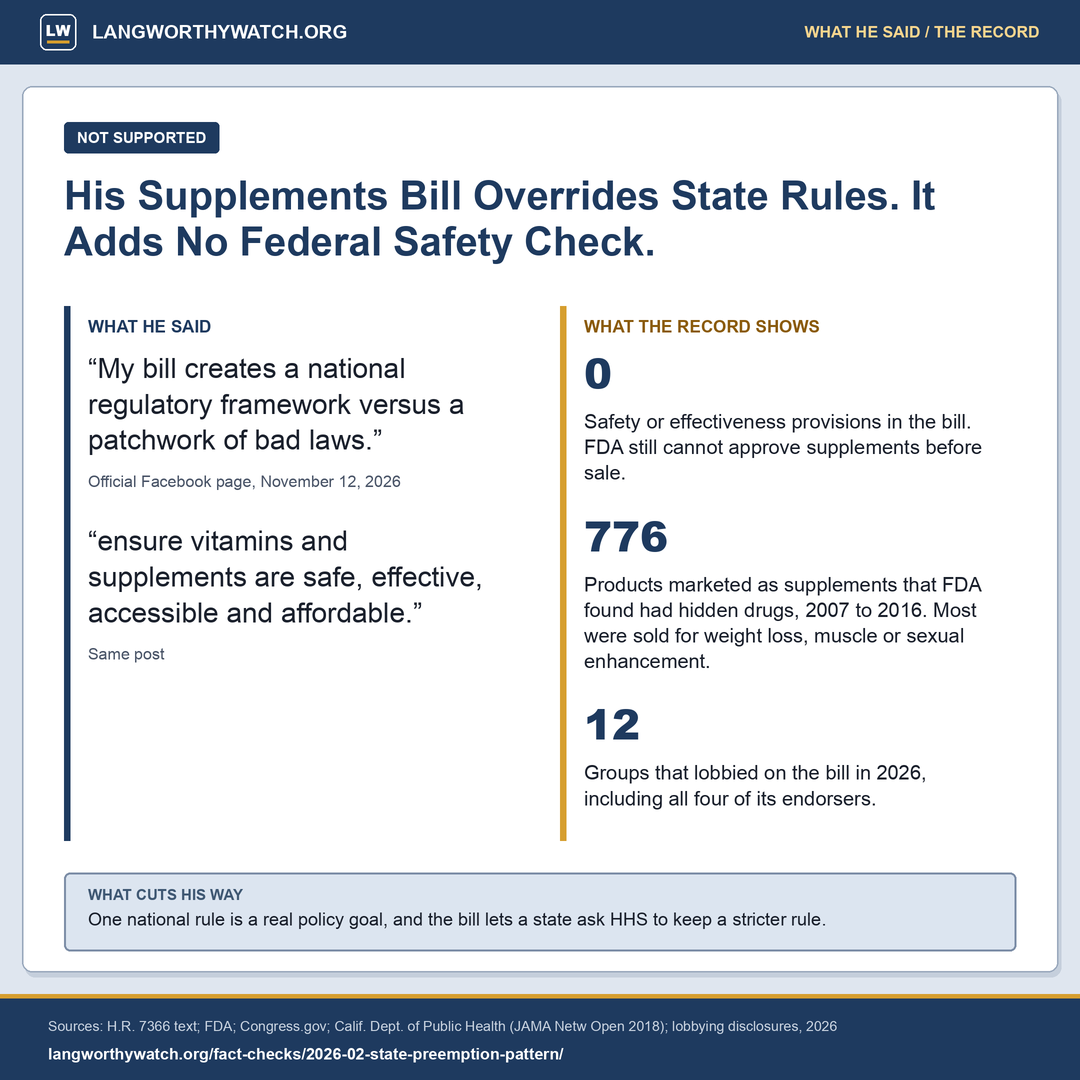
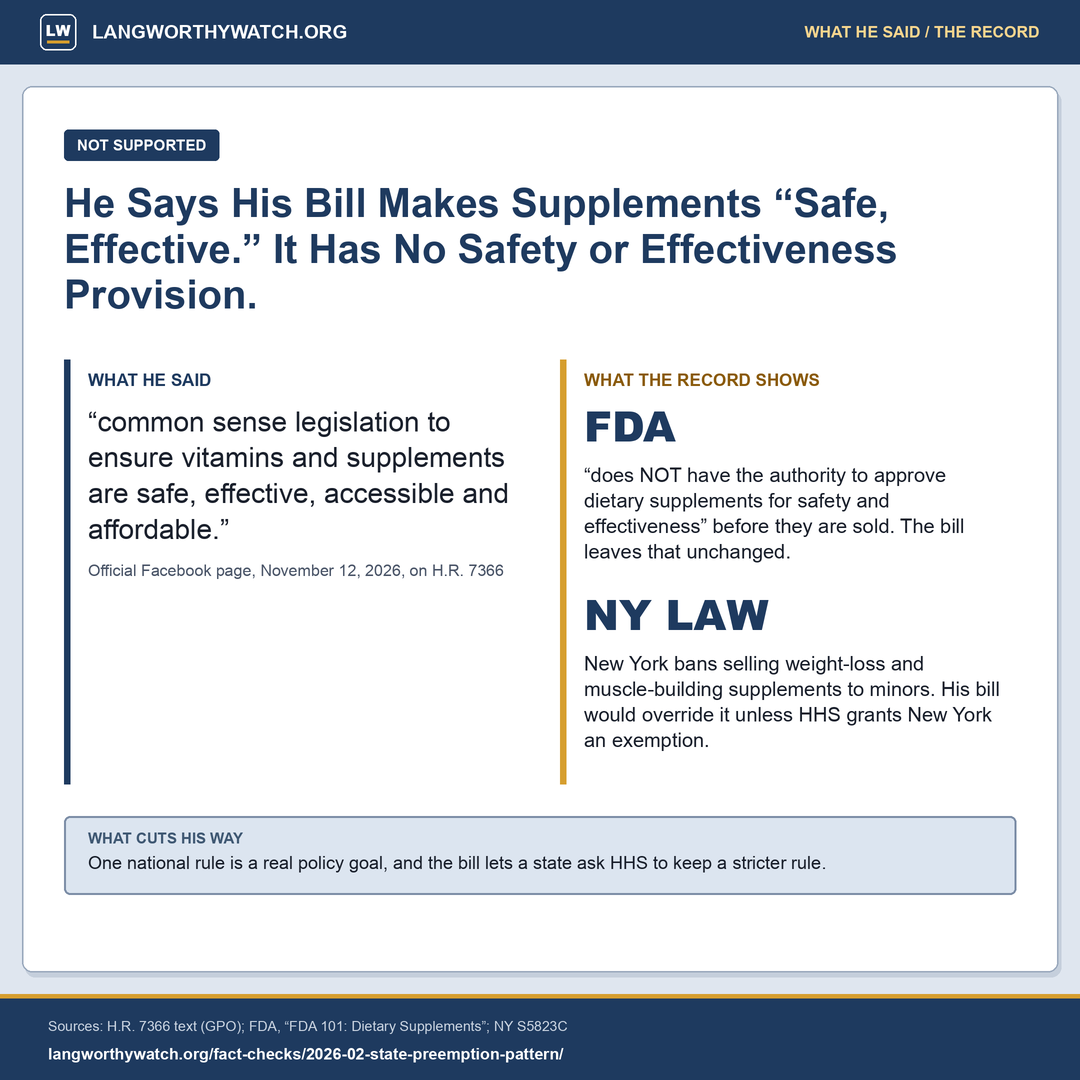
feat: rebuild supplements card and caption (his words vs FDA's)

Changed region(s): [[0.0611, 0.275, 0.9472, 0.8861], [0.0611, 0.0917, 0.8861, 0.6111], [0.1833, 0.9472, 0.7639, 0.9778]]

diff --git a/social-media/create_supplements_bill_card.py b/social-media/create_supplements_bill_card.py
@@ -1,21 +1,19 @@
 #!/usr/bin/env python3
-"""Supplements reel, Nov 12, 2026 update to entry 2026-02-state-preemption-pattern. Template B.
-Verdict pill = the entry's rating of "safe, effective" (NOT SUPPORTED); the framework line is MISSING CONTEXT
-in the entry and is named as such in the caption. Figures: H.R. 7366 IH text; FDA 101; Tucker et al. 2018
-(CDPH, JAMA Netw Open, 776 products); LDA 2026 Q1-Q3 (12 clients); FEC (NPA PAC $5,000, Mar 26, 2026)."""
+"""Supplements reel, Nov 12, 2026 update to entry 2026-02-state-preemption-pattern. Template B, rebuilt Nov 12:
+his "safe, effective" against FDA's own sentence (fda.gov "FDA 101: Dietary Supplements", archived 20261104022126),
+plus the New York minors law (S5823C) the bill would preempt absent an HHS exemption (H.R. 7366 IH, new 343-1(c)(2)).
+Verdict pill = the entry's rating of "safe, effective" (NOT SUPPORTED)."""
 import os, sys
 sys.path.insert(0, os.path.dirname(os.path.abspath(__file__)))
 from lib.card_v2 import said_vs_record
 said_vs_record(
-    title="His Supplements Bill Overrides State Rules. It Adds No Federal Safety Check.",
-    said_items=[("My bill creates a national regulatory framework versus a patchwork of bad laws.", "Official Facebook page, November 12, 2026"),
-                ("ensure vitamins and supplements are safe, effective, accessible and affordable.", "Same post")],
-    record_points=[("0", "Safety or effectiveness provisions in the bill. FDA still cannot approve supplements before sale."),
-                   ("776", "Products marketed as supplements that FDA found had hidden drugs, 2007 to 2016. Most were sold for weight loss, muscle or sexual enhancement."),
-                   ("12", "Groups that lobbied on the bill in 2026, including all four of its endorsers.")],
+    title="He Says His Bill Makes Supplements “Safe, Effective.” It Has No Safety or Effectiveness Provision.",
+    said_items=[("common sense legislation to ensure vitamins and supplements are safe, effective, accessible and affordable.", "Official Facebook page, November 12, 2026, on H.R. 7366")],
+    record_points=[("FDA", "“does NOT have the authority to approve dietary supplements for safety and effectiveness” before they are sold. The bill leaves that unchanged."),
+                   ("NY LAW", "New York bans selling weight-loss and muscle-building supplements to minors. His bill would override it unless HHS grants New York an exemption.")],
     fair_line="One national rule is a real policy goal, and the bill lets a state ask HHS to keep a stricter rule.",
     verdict="NOT SUPPORTED",
-    sources="Sources: H.R. 7366 text; FDA; Congress.gov; Calif. Dept. of Public Health (JAMA Netw Open 2018); lobbying disclosures, 2026",
+    sources="Sources: H.R. 7366 text (GPO); FDA, “FDA 101: Dietary Supplements”; NY S5823C",
     url="langworthywatch.org/fact-checks/2026-02-state-preemption-pattern/",
     kicker="WHAT HE SAID / THE RECORD",
     path=os.path.join(os.path.dirname(os.path.abspath(__file__)), "supplements_bill_card.png"))

diff --git a/social-media/supplements_bill_post.md b/social-media/supplements_bill_post.md
@@ -1,19 +1,18 @@
-# DRAFT Nov 12, 2026 (update to entry 2026-02-state-preemption-pattern; claim verdicts MISSING CONTEXT and NOT SUPPORTED, per the entry's Nov 12 claims table)
-# Card: supplements_bill_card.png (create_supplements_bill_card.py, v2 template B)
+# DRAFT Nov 12, 2026, rebuilt (update to entry 2026-02-state-preemption-pattern; claim verdicts MISSING CONTEXT and NOT SUPPORTED, per the entry's Nov 12 claims table)
+# Card: supplements_bill_card.png (create_supplements_bill_card.py, v2 template B, his words vs FDA's)
 
-Rep. Langworthy says his supplements bill will make them "safe, effective, accessible and affordable." The bill has no safety or effectiveness provision.
-
-CLAIM: "My bill creates a national regulatory framework"
-VERDICT: MISSING CONTEXT
-REALITY: It makes federal rules the only rules. A state would need HHS approval to keep a stricter one, like New York's ban on sales to minors. It adds no new federal rule.
+Rep. Langworthy says his supplements bill will make them "safe, effective." The bill has no safety or effectiveness provision.
 
 CLAIM: It will "ensure vitamins and supplements are safe, effective"
 VERDICT: NOT SUPPORTED
-REALITY: FDA can't approve supplements as safe or effective before sale. The bill doesn't change that.
+REALITY: FDA says it "does NOT have the authority to approve dietary supplements for safety and effectiveness" before sale. The bill leaves that unchanged.
 
-→ New York and Oregon have gone after mislabeled or spiked products already on sale, and California's health department counted 776 products FDA found with hidden drugs.
-→ 12 groups lobbied on the bill this year, including all four of its endorsers. One gave his campaign $5,000.
+CLAIM: "My bill creates a national regulatory framework"
+VERDICT: MISSING CONTEXT
+REALITY: It makes federal rules the only rules. New York's ban on selling weight-loss and muscle-building supplements to minors would be overridden unless HHS granted an exemption.
 
-In his favor: one national rule is a real policy goal, and the bill got a committee hearing in April.
+→ The Natural Products Association sued New York in 2023 to strike down that law. The suit was dismissed. It endorsed his bill the day he introduced it, and its PAC gave his campaign $5,000 in March. No exchange is alleged.
+
+In his favor: one national rule is a real policy goal.
 
 https://langworthywatch.org/fact-checks/2026-02-state-preemption-pattern/
